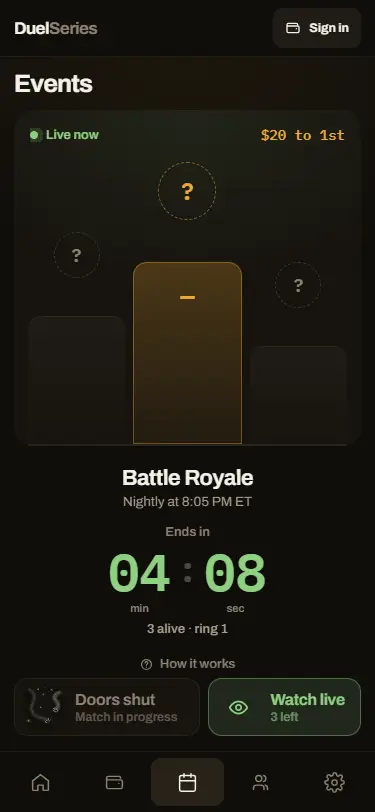
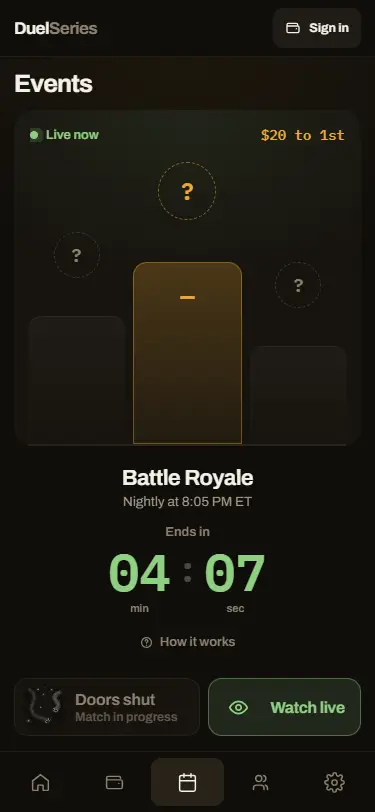
Battle royale Events card: the timer alone while a match runs (no alive count, no ring)
Owen 2026-10-17: "I don't want to know the 10 alive and ring 3, just the timer." The stat line under
the clock is gone and Watch live no longer says how many are left while a match runs (it still counts
the arena between matches). The Updates post and its picture say only the timer. Headless 1280x800 and
375x812: Ends in MM:SS, nothing under it, no sideways scroll. v2route guard flipped to forbid the count.

Changed region(s): [[0.3813, 0.7697, 0.616, 0.8313], [0.704, 0.8313, 0.9387, 0.8929], [0.616, 0.6773, 0.704, 0.7389]]

diff --git a/public/v2.html b/public/v2.html
@@ -879,12 +879,10 @@ body.ingame>.howveil,body.ingame>.meveil,body.ingame>.apscreen,body.ingame>.bshe
   color:var(--tx3);opacity:.5}
 /* A running match counts down to when its circle is fully closed (Owen
    2026-10-16: "how many minutes and seconds until it is over"), minutes and
-   seconds in the live green, the hours put away. Under it, plain words for
-   what the digits used to carry: who is left and which ring. */
+   seconds in the live green, the hours put away. The timer alone: no count
+   of who is left, no ring (Owen 2026-10-17: "just the timer"). */
 .evclock.live b{color:var(--live)}
 .evclock.live .evhr,.evclock.live #ev-c1{display:none}
-.evstat{margin-top:8px;font-size:13px;font-weight:600;color:var(--tx2)}
-.evstat:empty{display:none}
 
 /* Join on the left and Spectate on the right, as Play and Spectate sit on
    every game's card (Owen, 2026-10-16: "just like the rest of the games"). */
@@ -2396,14 +2394,12 @@ body.scr-anim { overflow-x:hidden }
                  : 'The doors are shut until this match ends.';
     }
     /* Spectate: watching the match while one is on, the arena between them.
-       Its small line counts what you would be watching (not after a match,
-       where the count is the winner alone). */
-    /* Who is left and which ring, in words, while a match runs. */
-    setText('ev-stat', live ? (BR.alive||0)+' alive · ring '+(BR.ring||1) : '');
+       Its small line counts the arena between matches; while a match runs the
+       card shows the timer alone (Owen 2026-10-17), so no count of who is left. */
     ownButton(st);
     if(watch){
       setText('ev-watch-t', on ? 'Watch live' : 'Spectate');
-      setText('ev-watch-s', live ? (BR.alive||0)+' left'
+      setText('ev-watch-s', live ? ''
                           : starting ? 'Starting'
                           : st==='waiting' && BR.alive ? BR.alive+' in the arena' : '');
     }
@@ -2685,7 +2681,6 @@ body.scr-anim { overflow-x:hidden }
         <i aria-hidden="true" class="evsec">:</i>
         <div class="evu evsec"><b id="ev-s">--</b><span>sec</span></div>
       </div>
-      <p class="evstat" id="ev-stat"></p>
     </div>
     <!-- The rules live behind this, where there is room to say all of them. -->
     <button type="button" class="evhow" onclick="openEventHow()">

diff --git a/test/v2route.test.js b/test/v2route.test.js
@@ -1285,7 +1285,7 @@ test('the nightly event states its prizes and reads the match, not a clock', () 
   /* The states it must be able to show. "in progress" is the one the wall
      clock could never express. */
   assert.ok(/in progress/i.test(html), 'it can say a match is in progress');
-  assert.ok(/\(BR\.alive\|\|0\)\+' alive · ring '/.test(html), 'and how many are left in it, and the ring');
+  assert.ok(!/alive · ring|' left'/.test(html), 'while live, the timer alone: no count of who is left, no ring (Owen 2026-10-17)');
   /* The shut door is said by the Join button itself, dimmed and relabelled
      (2026-10-15: a separate note under the hero repeated it word for word). */
   assert.ok(/join\.disabled = !BR\.joinable/.test(html) && /'Match in progress'/.test(html),
